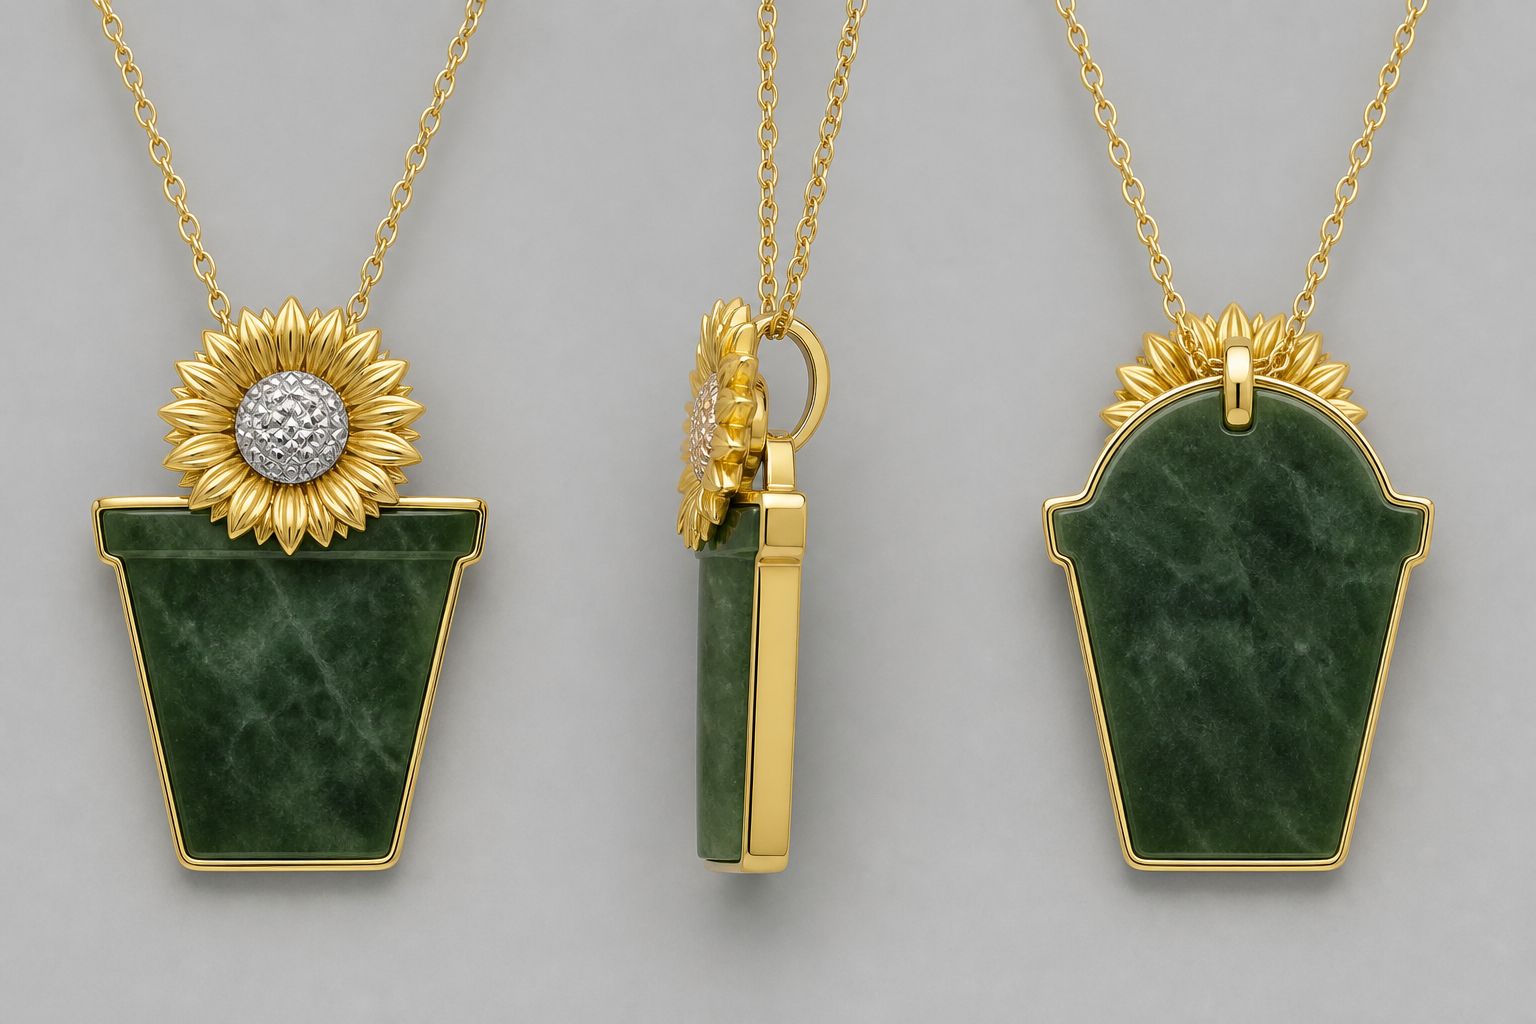
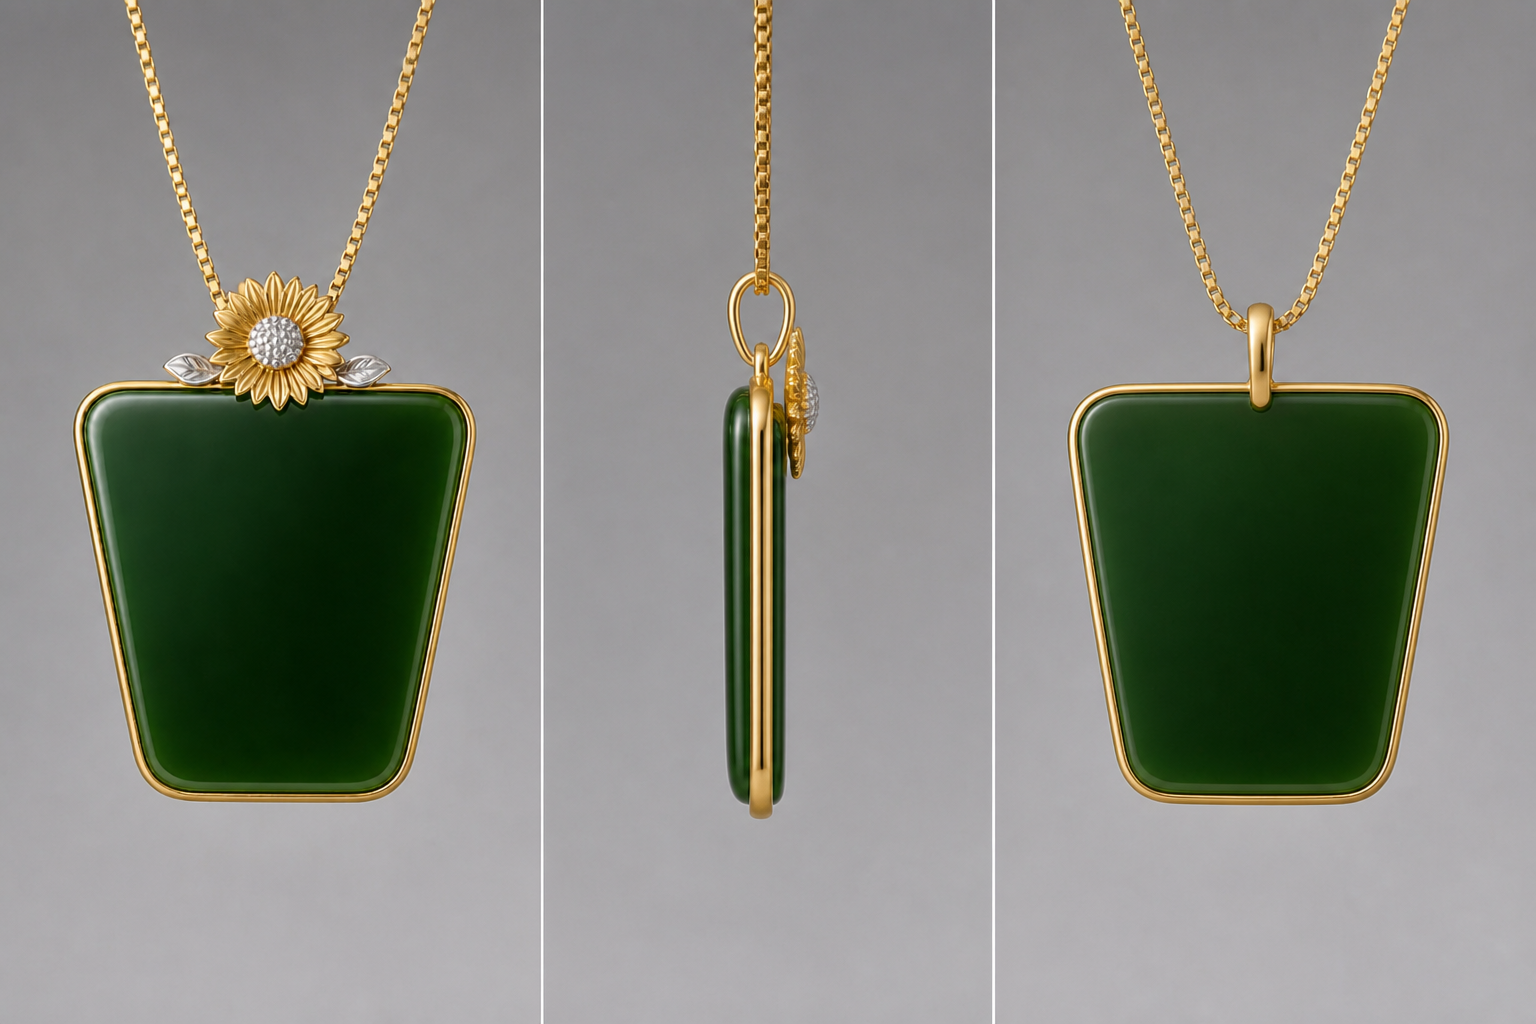
Revise Option A boards for proportion, ice texture, and matching back structure.
Replace final renders with a consistent front, three-view including back bail, and macro details in the same photoreal style.

diff --git a/designs/biyu-sunflower-flowerpot/final-A/正稿说明.md b/designs/biyu-sunflower-flowerpot/final-A/正稿说明.md
@@ -1,24 +1,19 @@
-# 正稿 · 方案 A 详图
+# 正稿 · 方案 A 详图（修订）
 
 ## 定稿要点
 
-- **造型**：梯形碧玉花盆（上宽下窄、软圆角）+ 顶缘向日葵
-- **材质**：冰底碧玉（深菠菜绿、油润半透）／包边与花瓣 **K黄**／花心与小叶 **K白**
-- **吊挂（A）**：向日葵 **背后** 细小 K黄隐式吊环 + **细金盒链**；正面不见扣头
+- **造型**：扁玉牌梯形花盆（上宽下窄、软圆角；顶宽略大于底宽，忌过高过收）
+- **材质**：冰底碧玉 — 深菠菜绿、油润半透、边角透光；忌死绿不透、忌花斑
+- **金属**：包边与花瓣 K黄；花心与小叶 K白
+- **吊挂 A**：花后细小 K黄隐式吊环 + 细金盒链；背面平整，仅顶部小吊环
 
-## 详图文件
+## 详图（同一样式）
 
 | 文件 | 内容 |
 |------|------|
-| `biyu-final-A-front.png` | 正面效果（佩戴向） |
-| `biyu-final-A-3view.png` | 正 / 侧 / 背三视图（侧背见花后吊环） |
-| `biyu-final-A-details-v2.png` | 花头特写 + 吊环特写 + 玉面/包边特写 |
-| `biyu-final-A-blueprint.png` | 结构示意（正/侧/背） |
+| `biyu-final-A-front.png` | 正面效果 |
+| `biyu-final-A-3view.png` | 正 / 侧 / 背（背面可见花后小吊环） |
+| `biyu-final-A-details-v2.png` | 花头 / 吊环 / 玉面特写 |
+| `biyu-final-A-blueprint.png` | 与三视图同风格的结构示意（含背面） |
 
-## 工艺摘要
-
-1. 玉牌按原石比例切磨梯形，保冰底油润  
-2. K黄细包边全包  
-3. 顶缘焊/镶立体向日葵（K黄瓣 + K白葵盘密珠 + 可选 K白小叶）  
-4. 花背后焊椭圆小吊环，穿细金盒链  
-5. 背面以平整为主，仅顶部有小吊环，不做大块扣板
+正面、三视图、特写保持同一光感与材质设定。
